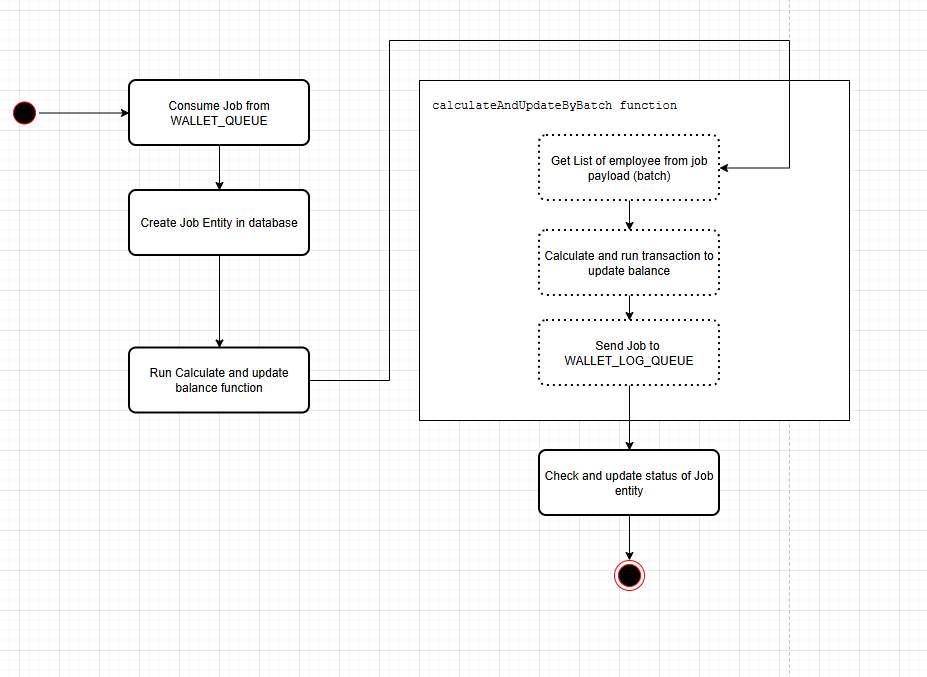
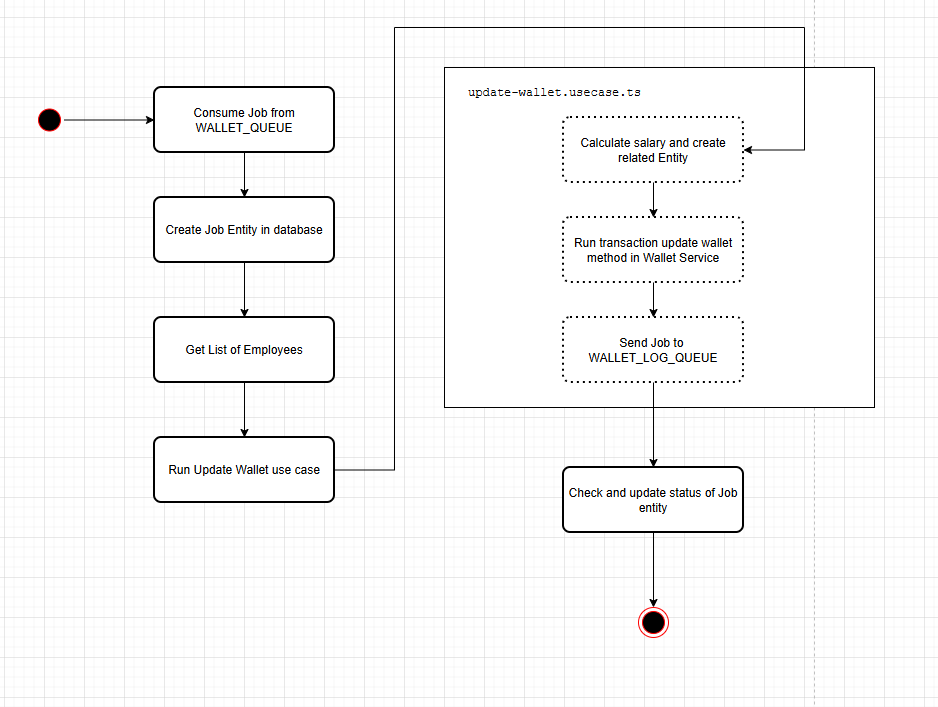
update: update method in use case flow section

diff --git a/docs/implement.md b/docs/implement.md
@@ -324,31 +324,41 @@ Based on the batch size, I can calculate the limit and offset to accurately retr
 
 There are two processors used to consume the jobs from these two queues: [wallet.processor.ts](../src/features/wallet/processors/wallet.processor.ts) and [wallet-log.processor.ts](../src/features/wallet/processors/wallet-log.processor.ts).
 
-## [Wallet Processor](../src/features/wallet/processors/wallet.processor.ts)
+### [Wallet Processor](../src/features/wallet/processors/wallet.processor.ts)
 
 In the wallet.processor.ts, it will create and update the job so that we can track and verify if the system has updated all the employees.
 
-Then, it will call the walletService to calculate and update the balances for the employees using the method [calculateAndUpdateByBatch](../src/features/wallet/infrastructure/services/wallet.service.ts#L86). Here, I only pass one parameter, which is the batch. With this method, we can update one or multiple employees as needed. This is also the main function in this project.
+Then, it will call the Use Case [update-wallet.usecase.ts](../src/features/wallet/application/commands/update-wallet.usecase.ts) to update and calculate the balances for the employee using the method [execute](../src/features/wallet/application/commands/update-wallet.usecase.ts#L28). **This is also the main function in this project.**
 
 You can read to understand how I handle the calculation and updating of salaries and balances for employees. Additionally, this function will also push tasks into the Wallet_Log_Queue to handle the logging of balance updates for employees.
 
+### [Wallet Log Processor](../src/features/wallet/processors/wallet-log.processor.ts)
 
-#### Illustration
+In the wallet-log-processor.ts, it also creates and update the job so that we also can track and verify the log of wallet.
+
+After that, will creates the wallet log entity to database.
+
+```
+You can see below illustrations to more understand
+```
+
+### Illustration
+
 **First step:**
 
-In ``app.service.ts``:
+In `app.service.ts`:
 
 ![alt text](./assets/activity-flow-1.png)
 
 **Second Step:**
 
-In ``wallet.processor.ts`` and ``wallet.service.ts``
+In `wallet.processor.ts`, `update-wallet.usecase.ts` and `wallet.service.ts`
 
 ![alt text](./assets/activity-flow-2.png)
 
 **Third Step:**
 
-In ``wallet-log.processor.ts``
+In `wallet-log.processor.ts`
 
 ![alt text](./assets/activity-flow-3.png)
 
